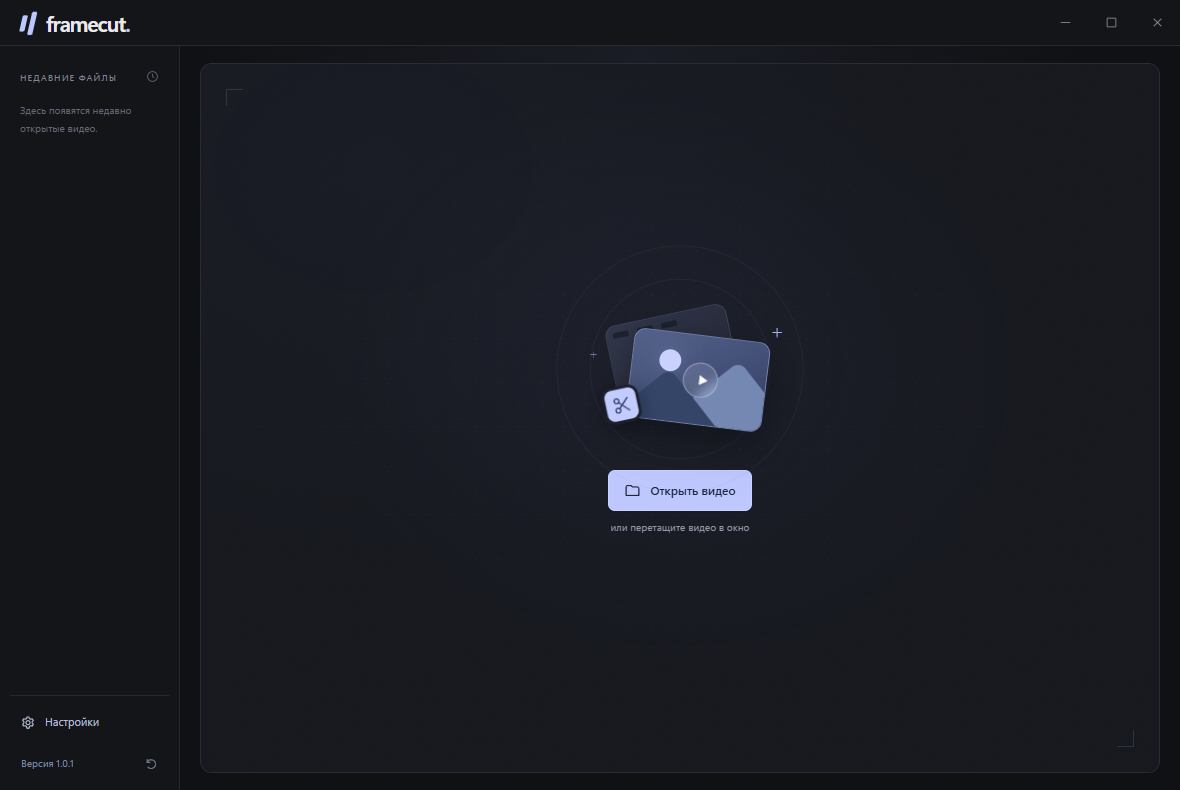
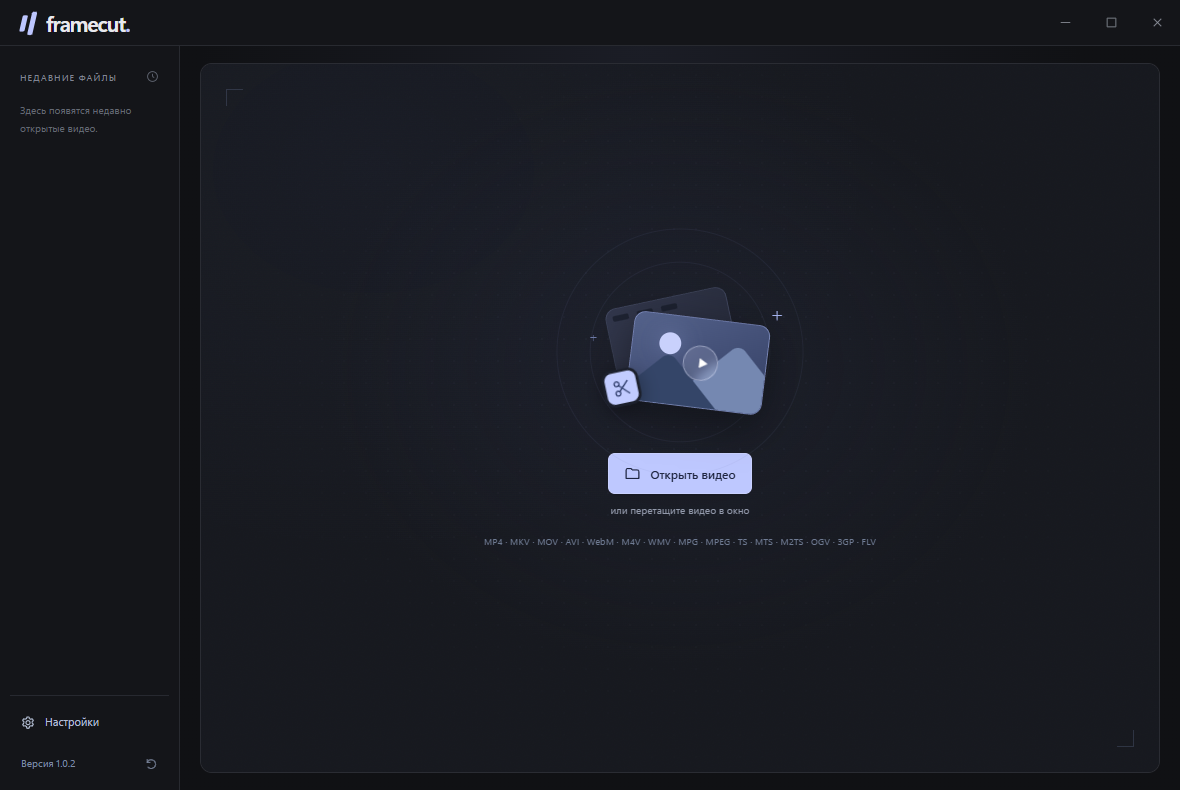
Loop playback within trim boundaries and show supported formats

Changed region(s): [[0.4271, 0.3646, 0.7017, 0.6987]]

diff --git a/src/renderer/renderer.js b/src/renderer/renderer.js
@@ -1,16 +1,19 @@
-/* global FramecutI18n, FramecutTime */
+/* global FramecutI18n, FramecutTime, FramecutPlayback */
 'use strict';
 
 const $ = id => document.getElementById(id);
 const api = window.framecut;
 const { translate } = FramecutI18n;
 const { formatTime, parseTime, formatSize } = FramecutTime;
+const { clampToSelection, loopsSelection, playbackTime } = FramecutPlayback;
 const video = $('video');
 const state = { language: 'en', media: null, start: 0, end: 0, busy: false, exporting: false,
   previewing: false, converting: false, mode: 'copy', replacing: false, recent: [], fallbackTried: false,
   statusKey: 'footer', thumbnailAbort: null, toastTimer: null, volumeTimer: null, initialized: false, version: '', update: { status: 'idle' }, share: null, sharing: false };
 const t = (key, values) => translate(state.language, key, values);
 const clamp = (value, min, max) => Math.max(min, Math.min(max, value));
+let playbackRequested = false;
+function pausePlayback() { playbackRequested = false; video.pause(); }
 
 function unwrap(result) {
   if (result.ok) return result.value;
@@ -105,7 +108,7 @@ async function openRequest(request) {
 }
 
 async function useMedia(data) {
-  video.pause();
+  pausePlayback();
   state.thumbnailAbort?.abort();
   state.media = data;
   document.body.classList.remove('empty');
@@ -132,7 +135,7 @@ async function useMedia(data) {
 async function convertPreview() {
   if (!state.media || state.converting) return;
   state.fallbackTried = true; state.converting = true;
-  video.pause(); setBusy(true, 'preparing');
+  pausePlayback(); setBusy(true, 'preparing');
   try {
     const result = unwrap(await api.preparePreview(state.media.id));
     state.media.url = result.url;
@@ -196,6 +199,9 @@ function updateSelection() {
   $('clip-duration').textContent = formatTime(state.end - state.start, true);
   $('timeline-tag').textContent = formatTime(state.end - state.start, true);
   $('selection-times').textContent = `${formatTime(state.start, true)} — ${formatTime(state.end, true)}`;
+  $('seek').min = state.start;
+  $('seek').max = state.end;
+  $('total-time').textContent = formatTime(state.end);
   $('in-handle').style.left = `${left}%`;
   $('out-handle').style.left = `${right}%`;
   $('range-outline').style.left = `${left}%`;
@@ -220,24 +226,38 @@ function changeBoundary(boundary, value, seekTo = false) {
   state.previewing = false;
   updateSelection(); updateTransport();
   if (seekTo) seek(boundary === 'start' ? state.start : state.end);
+  else if (video.currentTime < state.start || video.currentTime > state.end) seek(video.currentTime);
+  else updatePosition();
   state.statusKey = 'selectionReady'; $('status').textContent = t(state.statusKey);
 }
 
 function seek(seconds) {
   if (!state.media || !Number.isFinite(seconds)) return;
-  video.currentTime = clamp(seconds, 0, state.media.duration);
+  video.currentTime = clampToSelection(seconds, state.start, state.end);
   updatePosition();
 }
 
 function updatePosition() {
-  const time = video.currentTime || 0;
+  let time = video.currentTime || 0;
+  if (state.media && video.readyState > 0 && !video.seeking && !state.busy && !state.exporting && !state.replacing) {
+    const target = playbackTime(time, { start: state.start, end: state.end, duration: state.media.duration }, !video.paused, state.previewing);
+    if (Math.abs(target - time) > 0.0001) { video.currentTime = target; time = target; }
+  }
   $('current-time').textContent = formatTime(time);
   $('seek').value = time;
   $('playhead').style.left = `${state.media ? clamp(time / state.media.duration * 100, 0, 100) : 0}%`;
-  if (state.previewing && time >= state.end - 0.015) {
-    video.pause(); state.previewing = false; seek(state.end); updateTransport();
-  }
 }
+
+let playbackFrame = 0;
+function trackPlayback() {
+  cancelAnimationFrame(playbackFrame);
+  const tick = () => {
+    updatePosition();
+    if (!video.paused && !video.ended) playbackFrame = requestAnimationFrame(tick);
+  };
+  tick();
+}
+const selectionLoops = () => Boolean(state.media) && loopsSelection(state.start, state.end, state.media.duration, state.previewing);
 
 function updateTransport() {
   icon($('play'), video.paused ? 'play' : 'pause');
@@ -245,16 +265,17 @@ function updateTransport() {
   title($('play'), video.paused ? 'play' : 'pause');
   icon($('mute'), video.muted || video.volume === 0 ? 'muted' : 'volume');
   title($('mute'), video.muted ? 'unmute' : 'mute');
-  $('preview').querySelector('span').textContent = t(state.previewing ? 'previewing' : 'preview');
-  icon($('preview'), state.previewing ? 'pause' : 'play');
+  const previewActive = !video.paused && selectionLoops();
+  $('preview').querySelector('span').textContent = t(previewActive ? 'previewing' : 'preview');
+  icon($('preview'), previewActive ? 'pause' : 'play');
 }
 
 async function togglePlayback() {
   if (!state.media || state.busy || state.exporting) return;
   if (video.paused) {
-    if (video.ended || video.currentTime >= state.media.duration - 0.02) seek(0);
+    if (video.ended || video.currentTime < state.start || video.currentTime >= state.end - 0.015) seek(state.start);
     try { await video.play(); } catch { toast('playbackError', true); }
-  } else { video.pause(); state.previewing = false; }
+  } else { pausePlayback(); state.previewing = false; }
   updateTransport();
 }
 
@@ -296,7 +317,7 @@ async function drawThumbnails(url) {
 async function shareSelection() {
   if (!state.media || state.busy || state.exporting) return;
   document.activeElement?.blur();
-  video.pause(); state.previewing = false;
+  pausePlayback(); state.previewing = false;
   const key = `${state.media.id}:${state.start}:${state.end}:${state.mode}`;
   state.sharing = true; state.exporting = true; updateEnabled(); updateTransport();
   try {
@@ -335,7 +356,7 @@ async function exportSelection(saveMode = 'overwrite') {
   if (!state.media || state.busy || state.exporting) return;
   // Validate a focused field before its value can be used for an export shortcut.
   document.activeElement?.blur();
-  video.pause(); state.previewing = false; state.exporting = true;
+  pausePlayback(); state.previewing = false; state.exporting = true;
   updateEnabled(); updateTransport();
   try {
     const result = unwrap(await api.exportClip({ id: state.media.id, start: state.start, end: state.end, mode: state.mode, saveMode }));
@@ -393,7 +414,7 @@ for (const [id, boundary] of [['in-time', 'start'], ['out-time', 'end']]) {
 }
 $('reset').addEventListener('click', () => { state.start = 0; state.end = state.media.duration; state.previewing = false; updateSelection(); updateTransport(); });
 $('preview').addEventListener('click', async () => {
-  if (state.previewing) { video.pause(); state.previewing = false; }
+  if (!video.paused && selectionLoops()) { pausePlayback(); state.previewing = false; }
   else {
     state.previewing = true; seek(state.start);
     try { await video.play(); } catch { state.previewing = false; toast('playbackError', true); }
@@ -475,7 +496,7 @@ for (const [id, boundary] of [['in-handle', 'start'], ['out-handle', 'end']]) {
   let dragging = false;
   handle.addEventListener('pointerdown', event => {
     if (handle.disabled) return;
-    event.stopPropagation(); dragging = true; video.pause(); state.previewing = false;
+    event.stopPropagation(); dragging = true; pausePlayback(); state.previewing = false;
     $('timeline-track').classList.add('dragging');
     handle.setPointerCapture(event.pointerId);
   });
@@ -503,9 +524,15 @@ $('timeline-track').addEventListener('pointerdown', event => {
 
 video.addEventListener('timeupdate', updatePosition);
 video.addEventListener('seeked', updatePosition);
-video.addEventListener('play', updateTransport);
-video.addEventListener('pause', updateTransport);
-video.addEventListener('ended', () => { state.previewing = false; updateTransport(); });
+video.addEventListener('play', () => { playbackRequested = true; trackPlayback(); updateTransport(); });
+video.addEventListener('pause', () => { if (!video.ended) playbackRequested = false; cancelAnimationFrame(playbackFrame); updateTransport(); });
+video.addEventListener('ended', async () => {
+  if (playbackRequested && selectionLoops() && !state.busy && !state.exporting && !state.replacing) {
+    seek(state.start);
+    try { await video.play(); } catch { state.previewing = false; toast('playbackError', true); }
+  } else { playbackRequested = false; state.previewing = false; }
+  updateTransport();
+});
 video.addEventListener('loadedmetadata', () => { video.playbackRate = Number($('speed').value); updateEnabled(); updatePosition(); drawThumbnails(video.src); });
 video.addEventListener('error', () => {
   if (state.converting || state.replacing || !state.media || !video.getAttribute('src')) return;
@@ -540,8 +567,8 @@ window.addEventListener('keydown', event => {
     case 'KeyO': changeBoundary('end', video.currentTime); break;
     case 'KeyF': api.windowControl('fullscreen'); break;
     case 'KeyM': $('mute').click(); break;
-    case 'Comma': video.pause(); state.previewing = false; seek(video.currentTime - 1 / (state.media.fps || 25)); updateTransport(); break;
-    case 'Period': video.pause(); state.previewing = false; seek(video.currentTime + 1 / (state.media.fps || 25)); updateTransport(); break;
+    case 'Comma': pausePlayback(); state.previewing = false; seek(video.currentTime - 1 / (state.media.fps || 25)); updateTransport(); break;
+    case 'Period': pausePlayback(); state.previewing = false; seek(video.currentTime + 1 / (state.media.fps || 25)); updateTransport(); break;
     case 'Home': seek(0); break;
     case 'End': seek(state.media.duration); break;
   }
@@ -551,12 +578,12 @@ api.onEvent(message => {
   if (message.type === 'external-media') { useMedia(message.media).catch(reportError).finally(() => setBusy(false)); }
   if (message.type === 'external-error') { setBusy(false); reportError({ code: message.code }); }
   if (message.type === 'source-replacing') {
-    state.replacing = true; state.thumbnailAbort?.abort(); video.pause(); video.removeAttribute('src'); video.load();
+    state.replacing = true; state.thumbnailAbort?.abort(); pausePlayback(); video.removeAttribute('src'); video.load();
     api.releaseSource();
   }
   if (message.type === 'source-restore') { state.replacing = false; video.src = state.media.url; video.load(); }
   if (message.type === 'update-state') renderUpdate(message.state);
-  if (message.type === 'loading') { video.pause(); setBusy(true); }
+  if (message.type === 'loading') { pausePlayback(); setBusy(true); }
   if (message.type === 'recent') { state.recent = message.items; renderRecent(); }
   if (message.type === 'preview-progress') { $('preview-progress').value = message.progress; $('stage-message-title').textContent = t('preparingProgress', { percent: Math.round(message.progress * 100) }); }
   if (message.type === 'fullscreen') document.body.classList.toggle('fullscreen', message.active);
@@ -576,6 +603,7 @@ api.onEvent(message => {
     const data = unwrap(await api.bootstrap());
     state.recent = data.recent; state.mode = data.mode;
     state.version = data.version;
+    $('supported-formats').textContent = data.videoExtensions.map(extension => extension === 'webm' ? 'WebM' : extension.toUpperCase()).join(' · ');
     $('volume').value = data.volume; video.volume = data.volume;
     $('cut-mode').value = state.mode;
     $('window-preset').value = data.windowPreset || 'standard';

diff --git a/src/renderer/index.html b/src/renderer/index.html
@@ -89,6 +89,7 @@
               </div>
               <button class="button primary" id="open-center"><svg><use href="#i-folder"/></svg><span data-i18n="openVideo"></span></button>
               <span class="drop-hint" data-i18n="dropHint"></span>
+              <p class="supported-formats" id="supported-formats" data-label="videoFiles"></p>
             </div>
             <div class="video-badge" id="video-badge" hidden><span></span><span id="video-resolution"></span></div>
             <div class="stage-message" id="stage-message" hidden><div class="spinner"></div><strong id="stage-message-title"></strong><p id="stage-message-hint"></p><progress id="preview-progress" max="1" value="0" hidden></progress><button class="button secondary small" id="cancel-open" data-i18n="cancel"></button></div>
@@ -147,6 +148,6 @@
     <div class="settings-section"><h3 data-i18n="windowsIntegration"></h3><div class="settings-row"><label for="context-menu" data-i18n="contextMenu"></label><input type="checkbox" role="switch" id="context-menu" disabled></div><button class="button secondary default-player-button" id="default-player" data-i18n="defaultPlayerAction" disabled></button><p class="integration-note" id="integration-note" data-i18n="installedRequired" hidden></p></div>
   </dialog>
   <div class="toast" id="toast" role="status" aria-live="polite" hidden><svg><use href="#i-check"/></svg><span id="toast-text"></span><button class="icon-button" id="close-toast" data-title="close"><svg><use href="#i-close"/></svg></button></div>
-  <script src="../shared/i18n.js"></script><script src="../shared/time.js"></script><script src="renderer.js"></script>
+  <script src="../shared/i18n.js"></script><script src="../shared/time.js"></script><script src="../shared/playback.js"></script><script src="renderer.js"></script>
 </body>
 </html>

diff --git a/src/shared/playback.js b/src/shared/playback.js
@@ -1,0 +1,13 @@
+(function (root) {
+  'use strict';
+  const clampToSelection = (time, start, end) => Math.max(start, Math.min(end, time));
+  const loopsSelection = (start, end, duration, previewing = false) => previewing || start > 0 || end < duration;
+  function playbackTime(time, { start, end, duration }, playing, previewing = false) {
+    const lead = Math.min(0.015, (end - start) / 4);
+    if (playing && loopsSelection(start, end, duration, previewing) && time >= end - lead) return start;
+    return clampToSelection(time, start, end);
+  }
+  const api = { clampToSelection, loopsSelection, playbackTime };
+  if (typeof module === 'object' && module.exports) module.exports = api;
+  else root.FramecutPlayback = api;
+})(typeof globalThis !== 'undefined' ? globalThis : this);

diff --git a/src/renderer/styles.css b/src/renderer/styles.css
@@ -55,6 +55,7 @@ dialog{opacity:0;transform:translateY(5px);transition:opacity 180ms ease,transfo
 .sidebar-bottom{padding:10px 0 0}
 .settings-button{padding:8px 10px;border:1px solid transparent;border-radius:7px;min-height:34px;line-height:16px}
 .settings-button>span{display:block;transform:translateY(-1px)}
+.supported-formats{max-width:460px;margin-top:16px;color:#707c94;font-size:9px;line-height:1.8;letter-spacing:.15px;text-wrap:balance}
 .settings-button:hover{background:#22252e;border-color:#343a49}
 
 /* WireGuard Desktop's version button and update popover, in Framecut's palette. */

diff --git a/docs/usage.md b/docs/usage.md
@@ -2,6 +2,8 @@
 
 Open MP4, MKV, MOV, AVI, WebM, WMV, and other video containers supported by the bundled FFmpeg. Recent files are stored locally. Unsupported playback codecs are converted into a temporary H.264/AAC preview; exporting always uses the source. Large previews take time and disk space. Temporary previews are removed on normal exit; an interrupted session can leave `framecut-*` directories in the system temporary folder.
 
+The opening panel lists the same file types as the file picker. After you change the selection, playback loops between its boundaries. Timeline clicks, seeking, keyboard jumps and frame steps stay inside that range. Pause stops the loop; resetting the selection returns to normal whole-video playback. **Preview clip** also loops the selected range until stopped. Bounds remain active while the window is in the background.
+
 ## Cut modes
 
 | Mode | Behavior |
